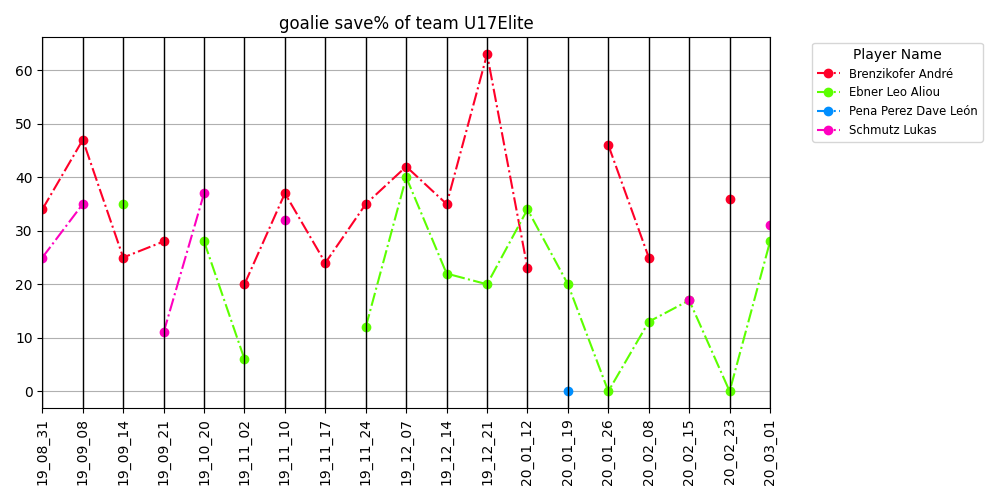
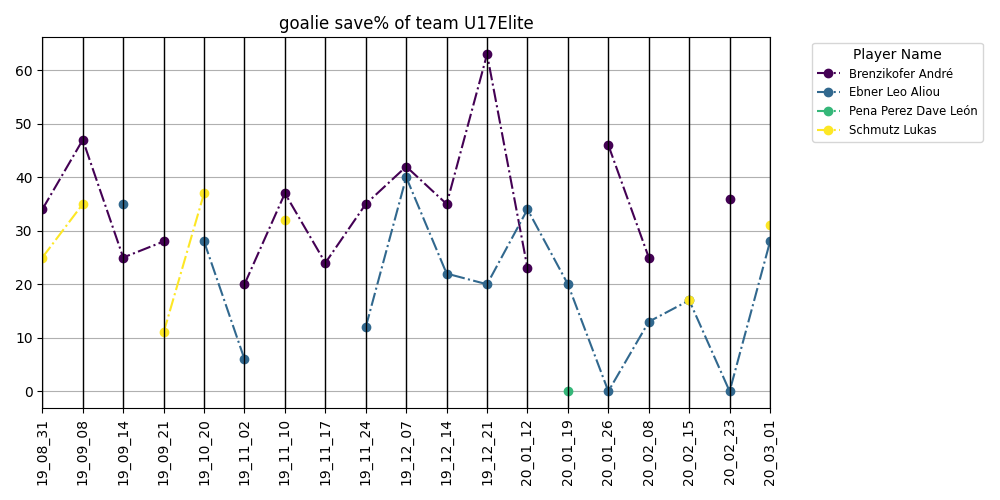
repair work

diff --git a/plotterProgress.py b/plotterProgress.py
@@ -4,9 +4,11 @@ from pandas.plotting import parallel_coordinates
 import matplotlib.pyplot as plt
 from matplotlib.font_manager import FontProperties
 import options
+import cmasher as cmr
 
 data_dir = 'playerProgress_data'
 teams_seasons = options.teams_seasons
+pride = cmr.pride
 print(teams_seasons)
 
 def main():
@@ -245,7 +247,7 @@ def plotOutfield(input_dataframe,stat,folder):
 
     plt.figure(figsize=(10, 5))
     input_dataframe = input_dataframe.sort_values(by = 'SPIELER')
-    output = parallel_coordinates(input_dataframe,'SPIELER', colormap='tab20', marker='o', linestyle='-.')
+    output = parallel_coordinates(input_dataframe,'SPIELER', colormap=pride, marker='o', linestyle='-.')
     plt.title(f'outfield player {stat} of team {get_key(folder)}')
     plt.legend(title='Player Name', bbox_to_anchor=(1.05, 1), loc='upper left', prop=fontP)
     plt.xticks(rotation=90)
@@ -292,7 +294,7 @@ def plotGoalie(input_dataframe,stat,folder):
 
     plt.figure(figsize=(10, 5))
     input_dataframe = input_dataframe.sort_values(by='TORHÜTER')
-    output = parallel_coordinates(input_dataframe, 'TORHÜTER', colormap='gist_rainbow', marker='o', linestyle='-.')
+    output = parallel_coordinates(input_dataframe, 'TORHÜTER', colormap='viridis', marker='o', linestyle='-.')
     plt.title(f'goalie save{stat} of team {get_key(folder)}')
     plt.legend(title='Player Name', bbox_to_anchor=(1.05, 1), loc='upper left', prop=fontP)
     plt.xticks(rotation=90)
@@ -342,17 +344,8 @@ def get_key(val):
             if eval(val) == element:
                 return team
 
-<<<<<<< HEAD
-    with open('{}/{}/{}'.format(data_dir,folder,infile), 'r') as infile:
-        lines = infile.readlines()
-        date = lines[0].split(' ')[1]
-        header = lines[2]
-
-        print(lines)
-        print(date,header)
-=======
     return "key doesn't exist"
->>>>>>> 2474742e798da51d2224e296b4908a0ab7eadc3d
+
 
 if __name__ == '__main__':
     main()
